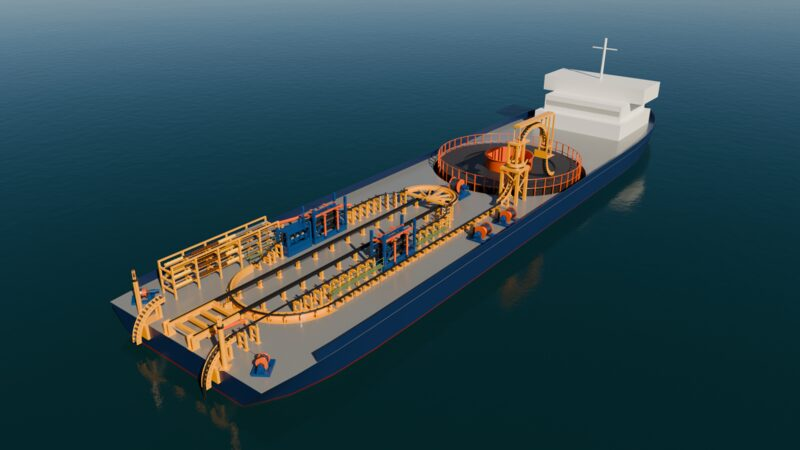
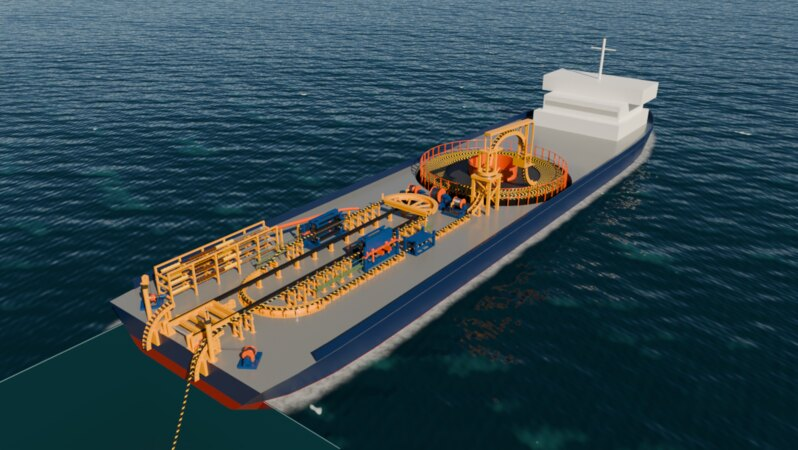
Task 0081: guide pictures (panel, cut-away still, new demo overview), a camera place for the sea cable; the panel no longer writes while drawing, the end line says into the sea
Claude-Session: https://claude.ai/code/session_01LGPBd4agTgqwx4SEaQVse7

diff --git a/fresing_render/blender/paths_sea.py b/fresing_render/blender/paths_sea.py
@@ -406,6 +406,18 @@ def solve(scene, item, rel, slots, starts, centres, axes, radii, sides, on0, wra
     out.update(points=pts, s=s_all, length=s_all[:, -1].copy(), wrap=wrap, lifted=lifted, ok=ok, sea=sea,
                sea_notes=_notes(item, sea, ok))
     _STATE["sea"][_paths()._k(scene, item)] = {k: np.array(v) for k, v in sea.items()}
+    if F == 1 or not item.sea_info:             # what the panel shows before anything is solved after a load
+        info = {"layback": float(h["layback"][0]), "angle": math.degrees(float(h["angle"][0])),
+                "bottom": float(bottom[0]), "top": float(top[0]), "laid": float(h["laid"][0]),
+                "hanging": float(s_h[0]), "kind": int(kind[0]), "a": float(h["a"][0]), "height": float(h["h"][0]),
+                "depth": depth(scene, item), "weight": weight(item)}
+        text = json.dumps({key: round(v, 4) if isinstance(v, float) else v for key, v in info.items()})
+        if item.sea_info != text:
+            try:
+                with flex._quiet(item):
+                    item.sea_info = text
+            except AttributeError:              # (asked while drawing: not written then)
+                pass
     if F > 1:
         _STATE.get("moment", {}).clear()
     return out
@@ -590,11 +602,7 @@ def numbers(scene, item) -> dict:
            "bottom": float(got["bottom"][k]), "top": float(got["top"][k]), "laid": float(got["laid"][k]),
            "hanging": float(got["suspended"][k]), "kind": int(got["kind"][k]), "a": float(got["a"][k]),
            "height": float(got["h"][k]), "depth": depth(scene, item), "weight": weight(item)}
-    text = json.dumps({key: round(v, 4) if isinstance(v, float) else v for key, v in out.items()})
-    if item.sea_info != text and k == 0:
-        with flex._quiet(item):
-            item.sea_info = text
-    return out
+    return out                                  # (it is drawn by the panel: it must not write anything)
 
 
 def _moment(scene, item):
@@ -717,3 +725,24 @@ def set_up_test_model(scene, speed: float = 60.0, seconds: float = 8.0) -> dict:
     b.speed_mmin = float(speed)
     scene.fresing.animations_index = len(scene.fresing.animations) - 1
     return {"cable": name, "joint": item.joint, "rider": r.name, "animation": TEST_ANIMATION, "notes": notes}
+
+
+def view_matrix(scene, item, lens: float = 30.0):
+    """A camera place (4 x 4 world matrix) that shows the cable hanging into the sea: aft of the touch-down, to
+    the side and above the water, looking forward and down at the middle of the catenary (the test tour, the PC
+    check and the guide picture use it)."""
+    from mathutils import Matrix, Vector
+    got = tdp_world(scene, item)
+    if got is None:
+        return None
+    T, tdp = got
+    u = np.array(item.sea_dir, dtype=float)
+    u[2] = 0.0
+    u /= max(float(np.linalg.norm(u)), 1e-12)
+    side = np.cross(np.array([0.0, 0.0, 1.0]), u)
+    span = float(np.linalg.norm(T - tdp))
+    target = 0.5 * (T + tdp)
+    target[2] = 0.5 * (T[2] + tdp[2]) * 0.6
+    loc = target + u * 0.55 * span + side * 0.85 * span + np.array([0.0, 0.0, 1.0]) * (0.9 * span)
+    look = Vector(tuple(target - loc)).to_track_quat("-Z", "Y").to_matrix().to_4x4()
+    return Matrix.Translation(Vector(tuple(loc))) @ look

diff --git a/fresing_render/blender/ui_paths.py b/fresing_render/blender/ui_paths.py
@@ -162,6 +162,8 @@ def end_text(item, end: str) -> tuple[str, bool]:
     part = getattr(item, key + "_part")
     wheels = [c for c in item.contacts if c.kind in paths.SHAPING]
     near = wheels[0 if key == "a" else -1].name if wheels else ""
+    if key == "b" and item.b_kind == "SEA":
+        return f"End: into the sea from {near}" if near else "End: into the sea", False
     if getattr(item, key + "_kind") == "WHEEL" and near:
         return f"{word}: lies on {near}", False
     if getattr(item, key + "_free_end"):
@@ -248,6 +250,8 @@ def _end_row(layout, context, cb, end: str) -> None:
     text, alert = end_text(cb, end)
     row = layout.row(align=True)
     wrap(row.column(), context, text, inset=64, alert=alert)
+    if end == "B" and cb.b_kind == "SEA":       # (set in the fold Into the sea)
+        return
     op = row.operator("fresing.cable_end", text="", icon="EYEDROPPER")
     op.end, op.free = end, False
     key = end.lower()
@@ -312,13 +316,15 @@ def _sea_fold(layout, context, cb) -> None:
         n = paths_sea.numbers(scene, cb)
         if n:
             box = body.box().column(align=True)
-            box.label(text=f"Layback {n['layback']:.1f} m, leaves at {n['angle']:.0f}° down", icon="MOD_OCEAN")
-            box.label(text=f"Tension {n['bottom']:.1f} kN at the seabed, {n['top']:.1f} kN at the top")
-            box.label(text=f"Hanging {n['hanging']:.1f} m, on the seabed {n['laid']:.1f} m")
+            lines = [f"Layback {n['layback']:.1f} m, leaves at {n['angle']:.0f}° down",
+                     f"Tension at the seabed {n['bottom']:.1f} kN, at the top {n['top']:.1f} kN",
+                     f"Hanging {n['hanging']:.1f} m, on the seabed {n['laid']:.1f} m"]
             if cb.sea_weight <= 0.0:
-                box.label(text=f"Weight in water {n['weight']:.0f} kg/m (from the Ø)")
+                lines.append(f"Weight in water {n['weight']:.0f} kg/m (from the Ø)")
             if cb.sea_depth <= 0.0:
-                box.label(text=f"Water depth {n['depth']:.1f} m (from the sea)")
+                lines.append(f"Water depth {n['depth']:.1f} m (from the sea)")
+            for k, line in enumerate(lines):
+                wrap(box, context, line, icon="MOD_OCEAN" if k == 0 else "BLANK1", inset=24)
             if n.get("kind", 0) in SEA_KINDS:
                 wrap(body, context, f"The cable {SEA_KINDS[n['kind']]}", icon="ERROR", alert=True)
         row = body.row(align=True)
@@ -441,7 +447,7 @@ class FRESING_PT_cables(_Panel, bpy.types.Panel):
             col.prop(cb, "mbr", text="Min. bend (MBR)")
             if cb.a_free_end:
                 col.prop(cb, "a_free", text="Free at start")
-            if cb.b_free_end:
+            if cb.b_free_end and cb.b_kind != "SEA":
                 col.prop(cb, "b_free", text="Free at end")
             col = body.column(align=True)
             col.prop(cb, "reverse", text="Runs the other way")

diff --git a/fresing_render/pccheck/checks.py b/fresing_render/pccheck/checks.py
@@ -668,12 +668,9 @@ def motion_sea_cable(ctx):
     n = paths_sea.numbers(scene, item)
     _check(abs(n.get("layback", 0.0) - 20.0) < 0.01, f"the layback is {n.get('layback', 0.0):.2f} m (20 m set)")
     s.sea_cutaway = True
-    import numpy as np
-
     from ..blender import cameras
-    top, tdp = paths_sea.tdp_world(scene, item)
-    pts = np.array([(12.0, -3.0, 3.5), (12.0, 3.0, 3.5), tuple(top), tuple(tdp), tuple(tdp + np.array([-8, 0, 0]))])
-    scene.camera = cameras.add_camera(scene, "ISO", 35.0, "Sea view", points=pts)
+    scene.camera = cameras.add_camera(scene, "ISO", 30.0, "Sea view")
+    scene.camera.matrix_world = paths_sea.view_matrix(scene, item)
     a = s.animations[made["animation"]]
     t0 = time.time()
     info = animation.bake(scene, a)

diff --git a/fresing_render/blender/tour.py b/fresing_render/blender/tour.py
@@ -1450,11 +1450,8 @@ def build_sea(b: Build):
     s.sea_cut_auto = True
     s.sea_cutaway = True
     _update()
-    import numpy as np
-    top, tdp = paths_sea.tdp_world(sc, paths.find(sc, made["cable"]))
-    pts = np.array([(12.0, -3.0, 3.5), (12.0, 3.0, 3.5), (0.0, -3.0, 3.5), tuple(top), tuple(tdp),
-                    tuple(tdp + np.array([-8.0, 0.0, 0.0]))])
-    _camera(b, "ISO", "Tour view", lens=35.0, points=pts)
+    cam = _camera(b, "ISO", "Tour view", lens=30.0)
+    cam.matrix_world = paths_sea.view_matrix(sc, paths.find(sc, made["cable"]))
     shot = _shot(b, "Tour: into the sea")
     a = s.animations[made["animation"]]
     a.start_shot = shot.name

diff --git a/tools/guide_screens.py b/tools/guide_screens.py
@@ -1930,9 +1930,8 @@ def render_sea():
     paths.refresh(sc)
     bpy.context.view_layer.update()
     s.sea_cutaway = True
-    top, tdp = sea.tdp_world(sc, it)
-    pts = np.array([(12.0, -3.0, 3.5), (12.0, 3.0, 3.5), tuple(top), tuple(tdp), tuple(tdp + np.array([-6.0, 0, 0]))])
-    cam = cams.add_camera(sc, os.environ.get("SEA_VIEW", "ISO"), 35.0, name="Guide sea", points=pts)
+    cam = cams.add_camera(sc, "ISO", 30.0, name="Guide sea")
+    cam.matrix_world = sea.view_matrix(sc, it)
     sc.camera = cam
     s.out_format, s.out_custom_w, s.out_custom_h, s.use_gpu, s.out_folder = "custom", 1100, 620, False, SCRATCH
     mod("blender.render").apply_output(sc, s)
